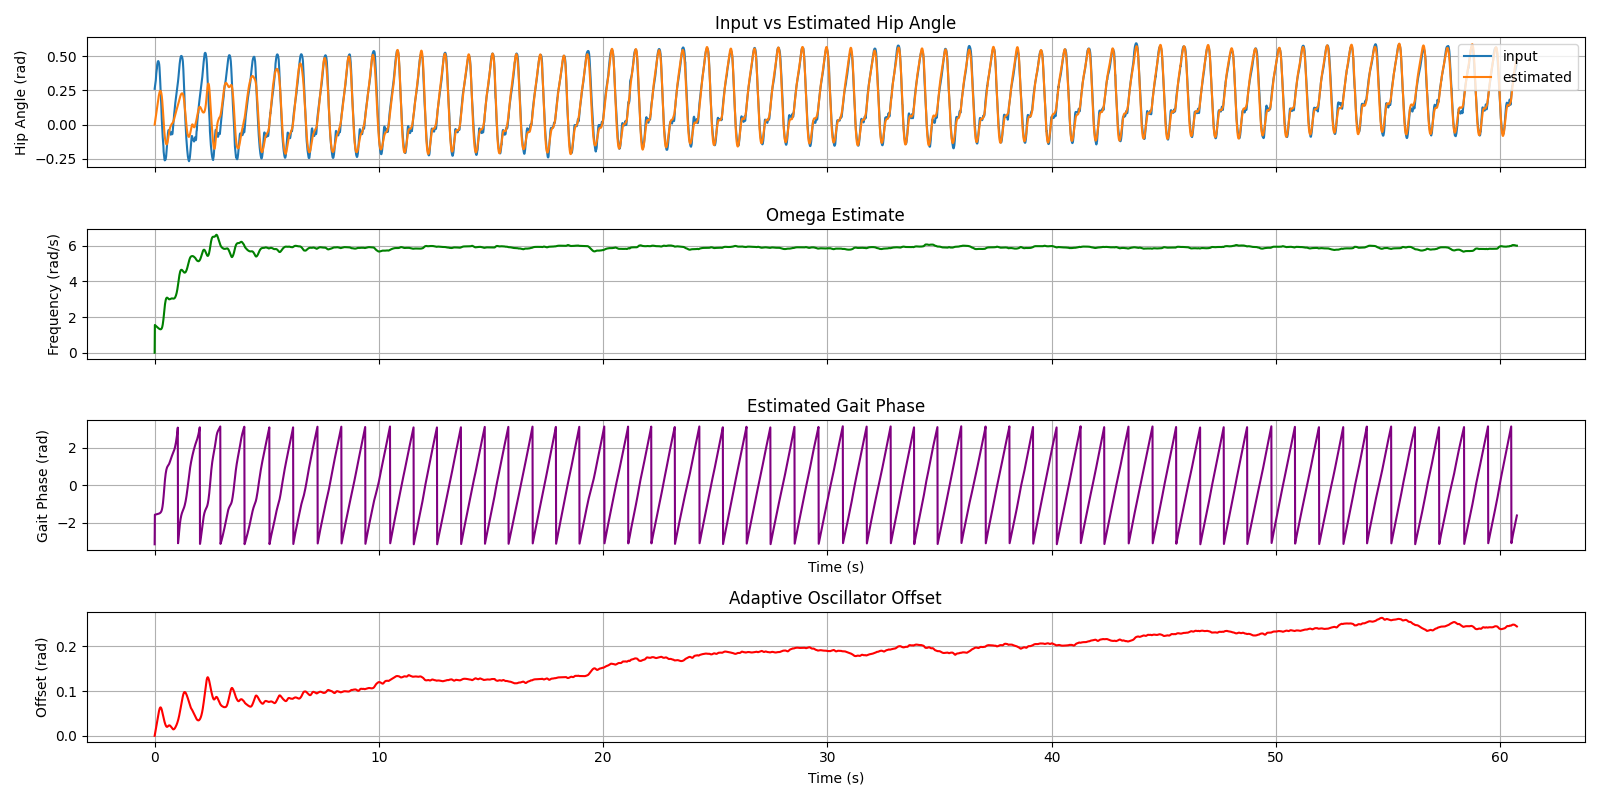
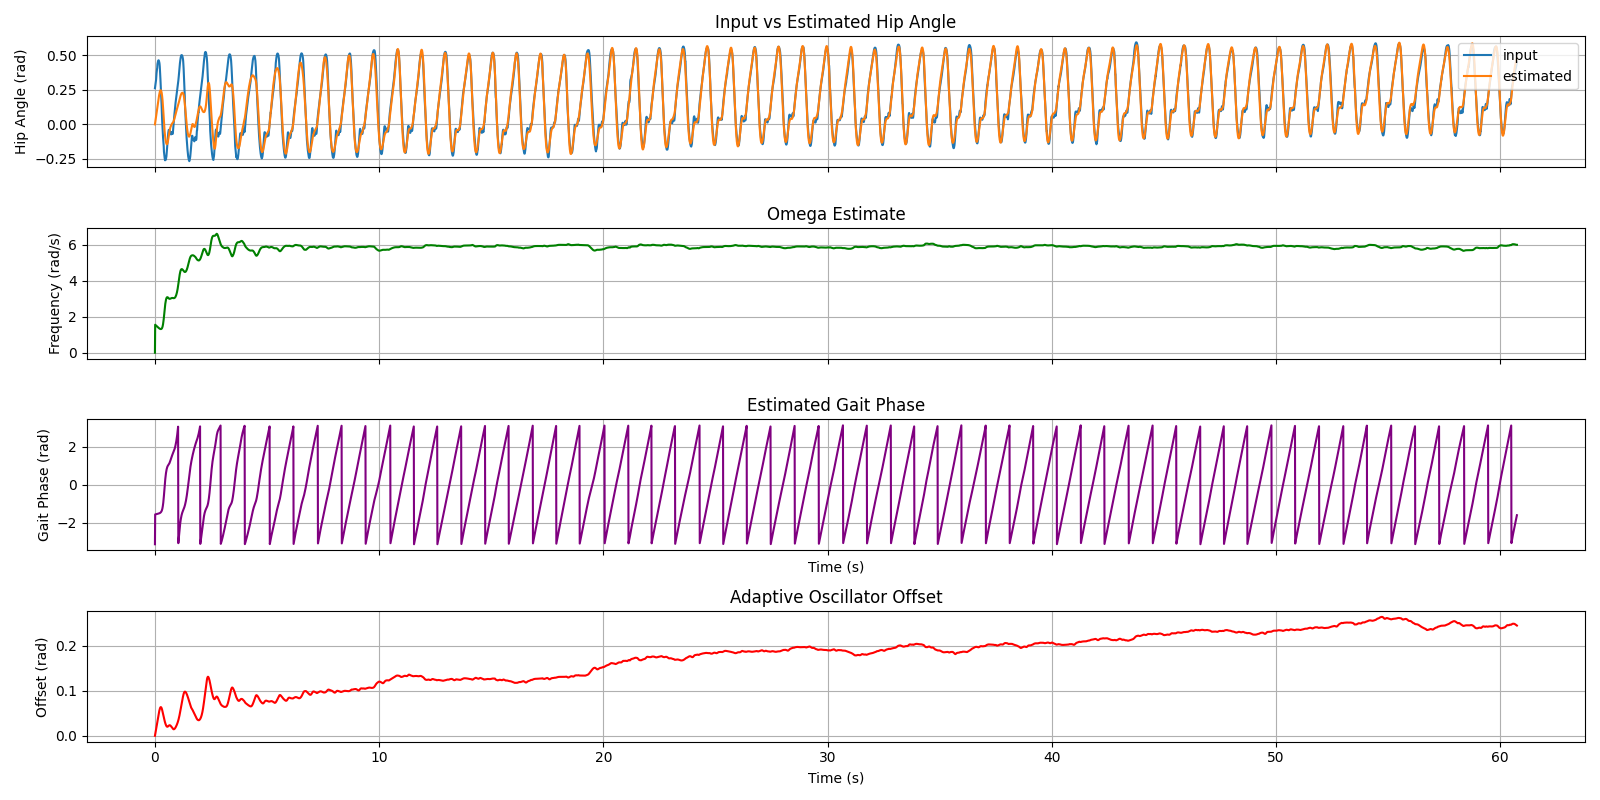
add iter methods

diff --git a/src/adaptive_oscillator/__main__.py b/src/adaptive_oscillator/__main__.py
@@ -4,6 +4,7 @@ import argparse
 
 import matplotlib.pyplot as plt
 import numpy as np
+from loguru import logger
 
 from adaptive_oscillator.base_classes import Joint
 from adaptive_oscillator.controller import AOController
@@ -12,12 +13,15 @@ from adaptive_oscillator.log_files import LogFiles, LogParser
 from adaptive_oscillator.utils import setup_logger
 
 
-def process_joint_data(joint_data: Joint) -> None:
+def process_joint_data(joint_data: Joint, joint: str, side: str) -> None:
     """Run the adaptive oscillator on a joint.
 
     :param joint_data: recorded joint data.
+    :param joint: name of the join.
+    :param side: name of the side.
     :return: None
     """
+    logger.info(f"Running controller with '{side}' '{joint}' joint data.")
     joint_data.angles.add_offset(offsets=[180, 0, 180])
     signal = -joint_data.angles.x
     time_stamps = joint_data.time - joint_data.time[0]
@@ -28,7 +32,7 @@ def process_joint_data(joint_data: Joint) -> None:
         dth = np.deg2rad(ang_deg)  # TODO: replace with actual derivative if available
         controller.step(t=t, x=th, x_dot=dth)
 
-    controller.plot_results()
+    controller.plot_results(joint=joint, side=side, save_plot=True)
 
 
 def main(log_dir: str, show_plots: bool) -> None:
@@ -40,9 +44,10 @@ def main(log_dir: str, show_plots: bool) -> None:
     log_files = LogFiles(log_dir)
     log_data = LogParser(log_files)
 
-    for side in log_data.data:
-        for key in ANGLES_SEGMENT_FIELDS:
-            process_joint_data(joint_data=getattr(side, key))
+    for side_key, side_data in log_data.data:
+        for joint_key in ANGLES_SEGMENT_FIELDS:
+            joint_data = getattr(side_data, joint_key)
+            process_joint_data(joint_data=joint_data, joint=joint_key, side=side_key)
 
     if show_plots:
         log_files.plot(euler_only=True)

diff --git a/src/adaptive_oscillator/controller.py b/src/adaptive_oscillator/controller.py
@@ -1,12 +1,14 @@
 """Controller module for the Adaptive Oscillator."""
 
 import time
+from datetime import datetime
 
 import matplotlib.pyplot as plt
 from loguru import logger
 
 from adaptive_oscillator.base_classes import AdaptiveOscillatorStepResult
 from adaptive_oscillator.definitions import (
+    DATE_FORMAT,
     DEFAULT_DELTA_TIME,
     FIG_SIZE,
     LEGEND_LOC,
@@ -97,9 +99,11 @@ class AOController:
         )
         return timestamps, thetas, theta_hats, omegas, phi_gps, offsets
 
-    def plot_results(self, save_plot: bool = False) -> None:
+    def plot_results(self, joint: str, side: str, save_plot: bool = False) -> None:
         """Plot controller results.
 
+        :param joint: joint string
+        :param side: side string
         :param save_plot: If True, save the plot.
         :return: None
         """
@@ -110,8 +114,8 @@ class AOController:
 
         axs[0].plot(t, thetas, label="input")
         axs[0].plot(t, theta_hats, label="estimated")
-        axs[0].set_ylabel("Hip Angle (rad)")
-        axs[0].set_title("Input vs Estimated Hip Angle")
+        axs[0].set_ylabel(f"{joint.capitalize()} Angle (rad)")
+        axs[0].set_title(f"Input vs Estimated {joint.capitalize()} Angle")
         axs[0].legend(loc=LEGEND_LOC)
 
         axs[1].plot(t, omegas, color="green")
@@ -133,7 +137,9 @@ class AOController:
         plt.tight_layout()
 
         if save_plot:
-            plt.savefig(RESULTS_DIR / "controller_results.png")
+            timestamp = datetime.now().strftime(DATE_FORMAT)
+            filename = f"results_{side}_{joint}_{timestamp}.png"
+            plt.savefig(RESULTS_DIR / filename)
         else:
             try:
                 plt.show()

diff --git a/src/adaptive_oscillator/utils/log_utils.py b/src/adaptive_oscillator/utils/log_utils.py
@@ -55,5 +55,5 @@ def setup_logger(
     )
     logger.add(sys.stderr, level=stderr_level)
     logger.add(filepath_with_time, level=log_level, encoding=ENCODING, enqueue=True)
-    logger.info(f"Logging to '{filepath_with_time}'.")
+    logger.debug(f"Logging to '{filepath_with_time}'.")
     return filepath_with_time

diff --git a/src/adaptive_oscillator/base_classes.py b/src/adaptive_oscillator/base_classes.py
@@ -157,8 +157,8 @@ class LeftRight:
 
     def __iter__(self):
         """Iterate over the left and right sides."""
-        yield self.left
-        yield self.right
+        yield "left", self.left
+        yield "right", self.right
 
 
 @dataclass
